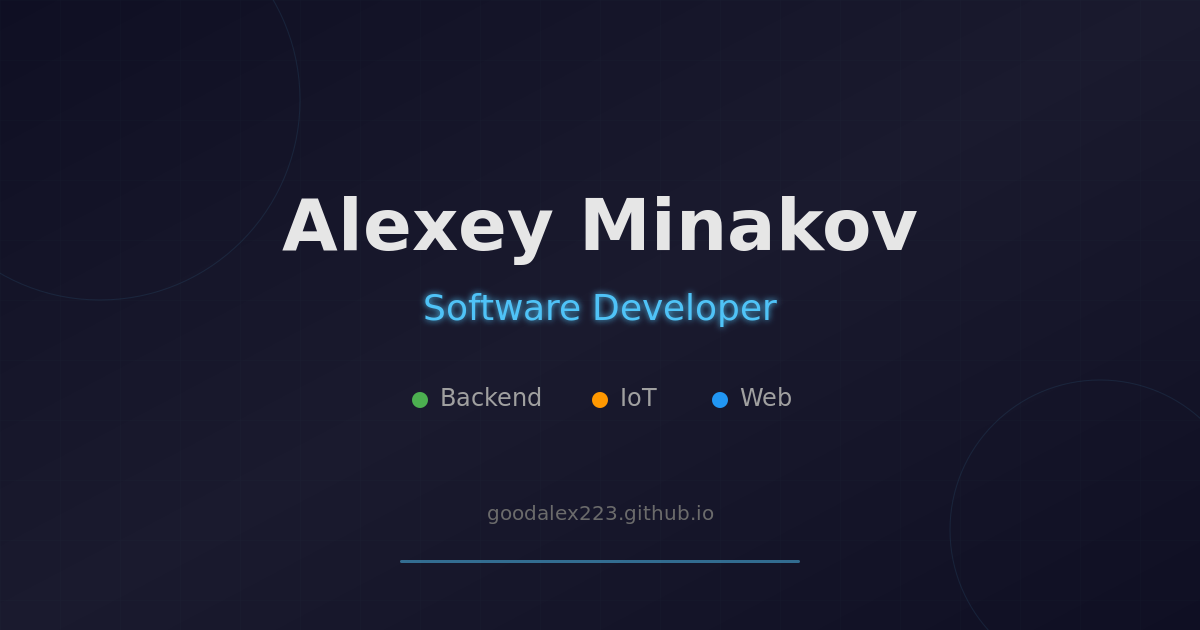
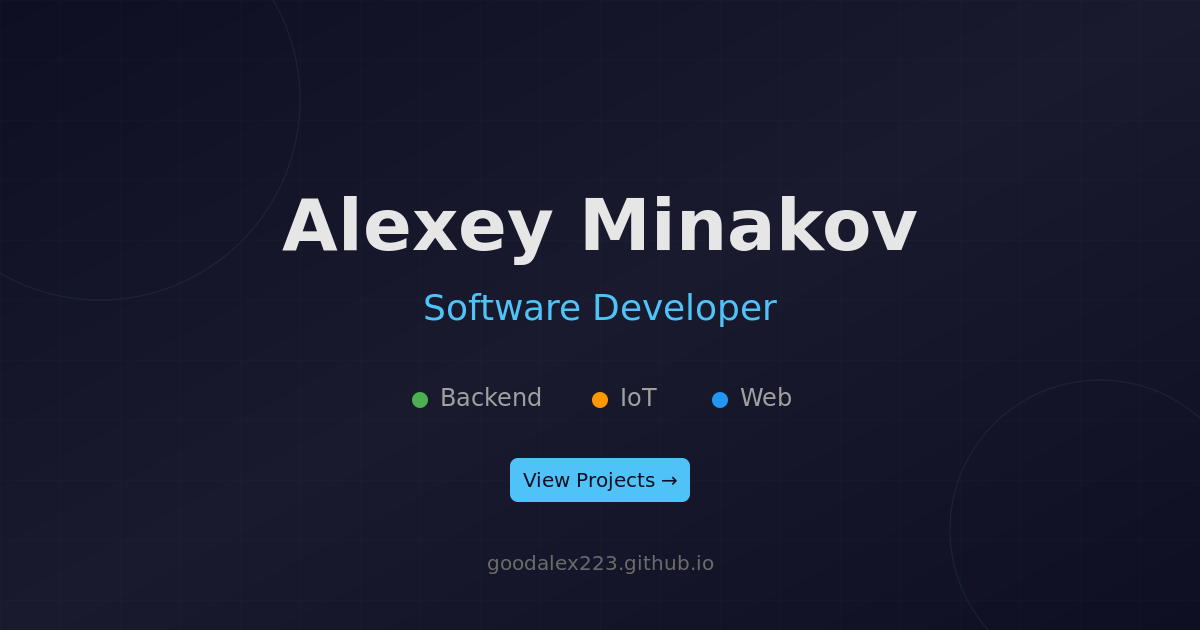
feat: Improve OG image and meta tags for social sharing
- Add CTA button "View Projects" to og-image
- Remove neon glow effect from subtitle
- Extend og:title to 56 chars (was 35)
- Extend og:description to 138 chars (was 33)
- Update Twitter Card meta tags to match

Changed region(s): [[0.4008, 0.7238, 0.5858, 0.8444], [0.3392, 0.4524, 0.6475, 0.5127], [0.3392, 0.8746, 0.6475, 0.9048]]

diff --git a/index.html b/index.html
@@ -17,10 +17,13 @@
     <link rel="manifest" href="/site.webmanifest" />
 
     <!-- Open Graph -->
-    <meta property="og:title" content="Alexey Minakov | Software Developer" />
+    <meta
+      property="og:title"
+      content="Alexey Minakov | Software Developer - Backend, IoT & Web"
+    />
     <meta
       property="og:description"
-      content="Backend, IoT, and Web Development"
+      content="Building practical solutions with Python, Arduino, and Web technologies. Explore projects in backend systems, IoT, and web development."
     />
     <meta property="og:type" content="website" />
     <meta property="og:url" content="https://goodalex223.github.io" />
@@ -34,10 +37,13 @@
 
     <!-- Twitter Card -->
     <meta name="twitter:card" content="summary_large_image" />
-    <meta name="twitter:title" content="Alexey Minakov | Software Developer" />
+    <meta
+      name="twitter:title"
+      content="Alexey Minakov | Software Developer - Backend, IoT & Web"
+    />
     <meta
       name="twitter:description"
-      content="Backend, IoT, and Web Development"
+      content="Building practical solutions with Python, Arduino, and Web technologies. Explore projects in backend systems, IoT, and web development."
     />
     <meta
       name="twitter:image"
